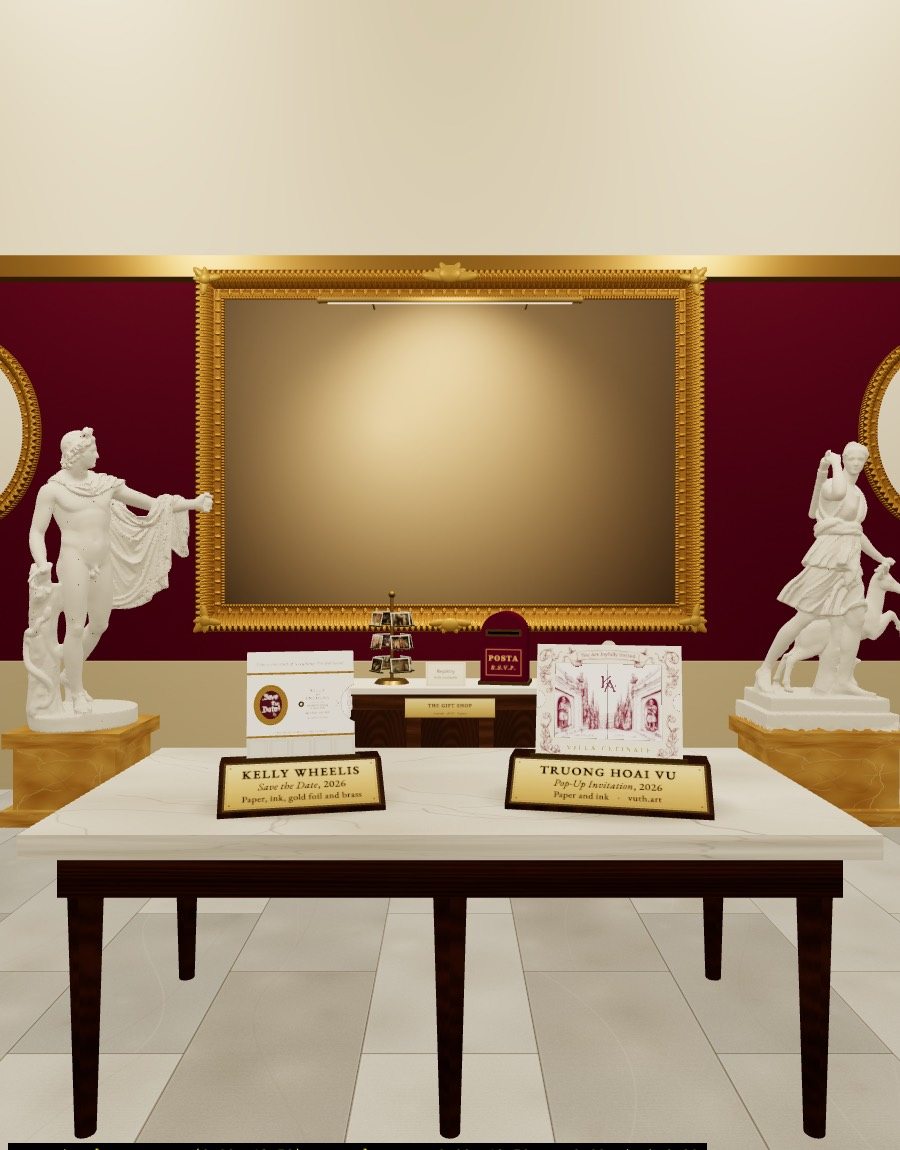
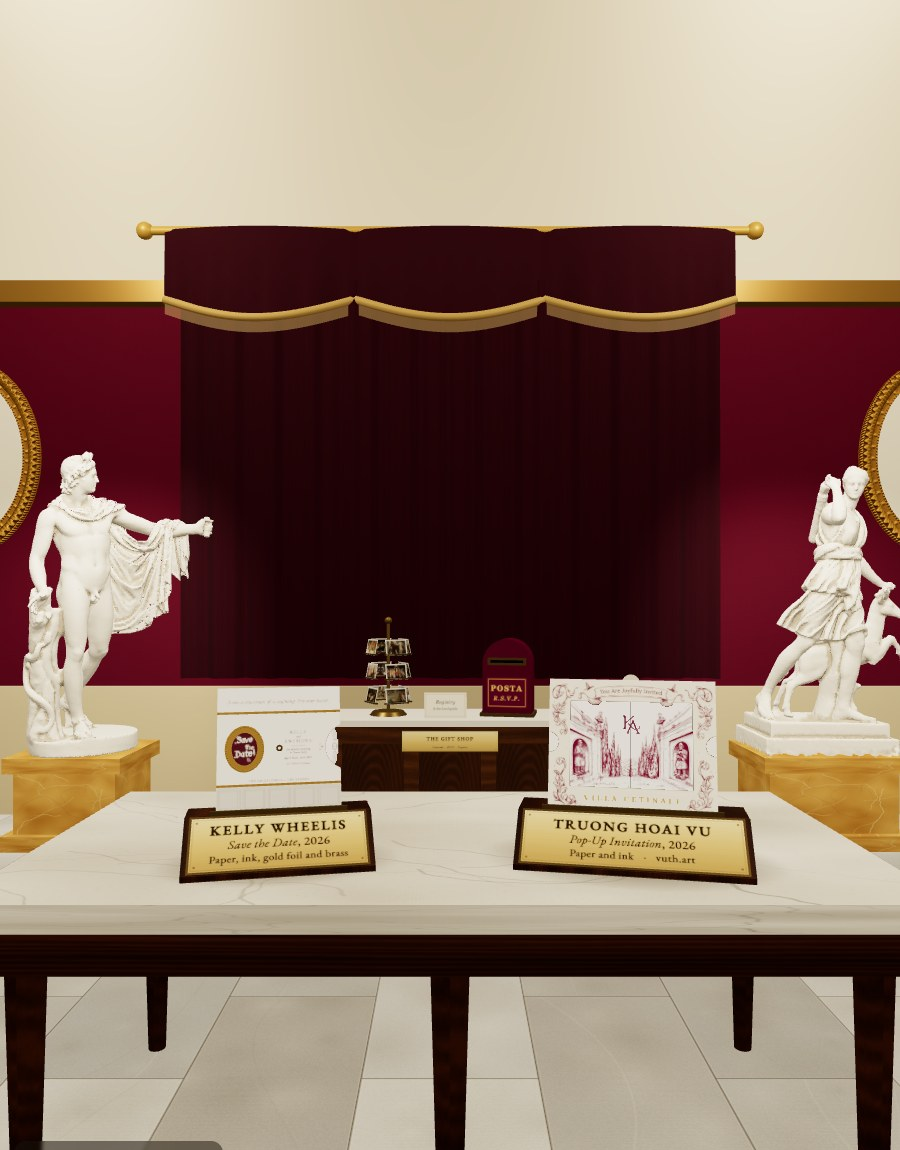
Phone edition brought up to date: current write-ups, re-rendered rooms and sculptures, and a saved generator
- tools/make_mobile_content.py builds mobile/content.js from the 3D build's tables (the harness dump=1 export now also
  carries NOTES, HIDDEN, POSTCARDS and the countdown dates); it reproduced the old file exactly apart from the updates
- Text: Apollo, Ariadne and Bacchus rewritten, The Dancing, the RSVP card's instructions, Isabella gone, Bacchus as his
  own sculpture, current credits (with the Tiepolo ceiling)
- Pictures: the 16 room heroes and sculpture cards re-rendered from today's build (the curtain, the moved table, the
  marble shading, Bacchus at the door), 900x1150 at quality 88
- HANDOFF: how to regenerate the phone text and re-render its pictures

diff --git a/Wedding website planning/mobile/content.js b/Wedding website planning/mobile/content.js
@@ -1,9 +1,6 @@
-// Generated from the 3D gallery's own text tables (tools/harness dump=1). Edit the texts in gallery3d.js, then regenerate.
+// Generated from the 3D gallery's own text tables by tools/make_mobile_content.py. Edit the texts in gallery3d.js, then regenerate.
 window.CONTENT = {
- "names": [
-  "Kelly Wheelis",
-  "Anthony Alvarez"
- ],
+ "names": ["Kelly Wheelis", "Anthony Alvarez"],
  "rooms": [
   {
    "id": "atrium",
@@ -170,7 +167,7 @@ window.CONTENT = {
     },
     {
      "title": "The Dancing",
-     "body": "Three Graces, minimum. Participation is not optional but skill is not required.",
+     "body": "Three Graces, minimum. Participation is not optional but skill is not required. Kelly will dance. Anthony will dance after a Peach Red Bull.",
      "meta": "Performance · ongoing",
      "pictures": [
       {
@@ -573,6 +570,12 @@ window.CONTENT = {
       "title": "Registry & Extras",
       "sections": [
        {
+        "h": "RSVP",
+        "p": [
+         "Pick a postcard from the rack, turn it over, and post it in the letterbox."
+        ]
+       },
+       {
         "h": "Gifts",
         "p": [
          "Our no-physical-gifts note. To be confirmed."
@@ -592,7 +595,7 @@ window.CONTENT = {
     {
      "img": "img/sc-detStatueL.jpg",
      "title": "Apollo Belvedere",
-     "body": "The most admired statue in the world for about three hundred years: Apollo, a moment after loosing an arrow, watching it land. Goethe wept. Napoleon stole it. It is here because a wedding needs at least one guest who has just hit his mark.",
+     "body": "For three hundred years this was the most famous statue in the world. Apollo has just loosed an arrow and is watching it land; he already knows it has struck. Goethe wept in front of it, Napoleon carried it off to Paris, and every art student in Europe drew it. He stands by the curtain because he is the god of light, music and poetry, all three of which we have booked. He is also the only guest who has ever hit his mark on the first try, and we hope his aim is contagious.",
      "meta": "Roman copy after Leochares, c. 120–140 · Vatican Museums (cast at Statens Museum for Kunst, Copenhagen)"
     },
     {
@@ -604,14 +607,8 @@ window.CONTENT = {
     {
      "img": "img/sc-detEndL.jpg",
      "title": "Ariadne",
-     "body": "Abandoned on an island by the man she had just saved, she lay down and slept. Bacchus found her there, married her, and set her wedding crown in the sky as a constellation. He is across the room, in the opposite corner, still wearing the ivy. Things turned out fine.",
+     "body": "Abandoned on an island by the man she had just saved, she lay down and slept. Bacchus found her there, married her, and set her wedding crown in the sky as a constellation. He is at the door as you came in, still wearing the ivy. Things turned out fine.",
      "meta": "Roman, 2nd century · Musée Saint-Raymond, Toulouse"
-    },
-    {
-     "img": "img/sc-detEndR.jpg",
-     "title": "Antinous as Dionysus",
-     "body": "Ivy and grapes in his hair: the god of wine, as the emperor Hadrian had his beloved Antinous portrayed. A confession: neither of us drinks. A request: please do not let that stop you. Tuscany makes some of the best wine on earth, and somebody has to enjoy it on our behalf.",
-     "meta": "Roman, c. 130–138 · Vatican Museums (cast at Statens Museum for Kunst, Copenhagen)"
     },
     {
      "img": "img/sc-detEntryL.jpg",
@@ -621,9 +618,9 @@ window.CONTENT = {
     },
     {
      "img": "img/sc-detEntryR.jpg",
-     "title": "Isabella of Aragon",
-     "body": "Beatrice’s cousin by marriage and, for a few years, her rival for the same palace in Milan. The two of them are on either side of this door, which is the closest they have stood to each other in five hundred years. They are behaving.",
-     "meta": "Attributed to Francesco Laurana, c. 1490 (cast at Statens Museum for Kunst, Copenhagen)"
+     "title": "Antinous as Dionysus",
+     "body": "Ivy and grapes in his hair: the god of wine, as the emperor Hadrian had his beloved Antinous portrayed, at the door to welcome you in. A confession: neither of us drinks. A request: please do not let that stop you. Tuscany makes some of the best wine on earth, and somebody has to enjoy it on our behalf. His bride, Ariadne, is at the far end of the room.",
+     "meta": "Roman, c. 130–138 · Vatican Museums (cast at Statens Museum for Kunst, Copenhagen)"
     }
    ]
   }
@@ -651,6 +648,7 @@ window.CONTENT = {
   ["The Effects of Good Government in the Countryside, Ambrogio Lorenzetti, 1338–39", "Palazzo Pubblico, Siena · public domain"],
   ["The Dream of St Ursula, Vittore Carpaccio, 1495", "Gallerie dell’Accademia, Venice · public domain"],
   ["The Court of Gonzaga (Camera degli Sposi), Andrea Mantegna, 1465–74", "Palazzo Ducale, Mantua · public domain"],
+  ["Allegory of the Planets and Continents (sketch for a ceiling), Giovanni Battista Tiepolo, 1752", "The Metropolitan Museum of Art, New York · public domain"],
   ["Pop-Up Invitation, Truong Hoai Vu", "vuth.art · illustration and paper engineering, shown with the artist’s permission"],
   ["The Capitoline Venus (cast of the marble in the Capitoline Museums, Rome)", "3D scan by Statens Museum for Kunst, Copenhagen · public domain · via Wikimedia Commons · simplified for the web, shared under the same license"],
   ["The Ludovisi Mars, with Cupid at his feet (cast of the marble in Palazzo Altemps, Rome)", "3D scan by Statens Museum for Kunst, Copenhagen · public domain · via Wikimedia Commons · simplified for the web, shared under the same license"],
@@ -662,8 +660,7 @@ window.CONTENT = {
   ["Costanza Bonarelli, Gian Lorenzo Bernini, c. 1636–38 (cast of the Bargello marble)", "3D scan by Statens Museum for Kunst, Copenhagen · public domain · via Wikimedia Commons · simplified for the web, shared under the same license"],
   ["Head of Ariadne (Musée Saint-Raymond, Toulouse)", "3D scan by Musée Saint-Raymond / Scan the World · CC BY · via Wikimedia Commons · simplified for the web, shared under the same license"],
   ["Antinous as Dionysus (cast of the Vatican marble)", "3D scan by Statens Museum for Kunst, Copenhagen · public domain · via Wikimedia Commons · simplified for the web, shared under the same license"],
-  ["Beatrice d’Este, after Gian Cristoforo Romano (cast of the Louvre marble)", "3D scan by Statens Museum for Kunst, Copenhagen · public domain · via Wikimedia Commons · simplified for the web, shared under the same license"],
-  ["Isabella of Aragon, attributed to Francesco Laurana (cast)", "3D scan by Statens Museum for Kunst, Copenhagen · public domain · via Wikimedia Commons · simplified for the web, shared under the same license"]
+  ["Beatrice d’Este, after Gian Cristoforo Romano (cast of the Louvre marble)", "3D scan by Statens Museum for Kunst, Copenhagen · public domain · via Wikimedia Commons · simplified for the web, shared under the same license"]
  ],
  "sectionLabel": {
   "main": "the main details",

diff --git a/Wedding website planning/tools/harness/extra.js b/Wedding website planning/tools/harness/extra.js
@@ -383,6 +383,7 @@
     const strip = (o) => JSON.parse(JSON.stringify(o, (k, v) => (typeof v === 'number' || typeof v === 'string' || typeof v === 'boolean' || v === null || Array.isArray(v) || (v && v.constructor === Object)) ? v : undefined));
     const out = { STATIONS: strip(STATIONS), DETAIL_PICTURES: strip(DETAIL_PICTURES), ATRIUM_PICTURES: strip(ATRIUM_PICTURES), W1_PICTURES: strip(W1_PICTURES), W2_PICTURES: strip(W2_PICTURES),
       SCULPTURE_NOTES: strip(SCULPTURE_NOTES), SCULPTURES: strip(SCULPTURES), CARDS: strip(CARDS), SECTION_LABEL: strip(SECTION_LABEL), SECTION_STOP: strip(SECTION_STOP),
+      NOTES: strip(NOTES), HIDDEN: strip(HIDDEN), POSTCARDS: strip(POSTCARDS), WEDDING: WEDDING.getTime(), SITE_OPENED: SITE_OPENED.getTime(),
       credits: [...document.querySelectorAll('#creditsList p')].map((n) => [n.firstChild.textContent.trim(), n.lastChild.textContent.trim()]) };   // [the work, its credit]
     const pre = document.createElement('pre'); pre.id = 'dump'; pre.textContent = JSON.stringify(out); document.body.appendChild(pre);
   }, 800); }

diff --git a/Wedding website planning/tools/make_mobile_content.py b/Wedding website planning/tools/make_mobile_content.py
@@ -1,0 +1,101 @@
+#!/usr/bin/env python3
+"""Build the mobile edition's text file, mobile/content.js, from the 3D gallery's own tables.
+
+The phone guide shows the same write-ups as the 3D gallery, so its text is never typed twice: edit the text in
+gallery3d.js, export the tables with the screenshot harness, and run this.
+
+  1. cd tools/harness && ./build.sh
+  2. open  http://127.0.0.1:8011/index.html?dump=1&credits=1  in headless Chrome with --dump-dom and save the page
+     (the tables arrive as JSON in <pre id="dump">); or pass the saved JSON itself
+  3. python3 tools/make_mobile_content.py DUMP.html-or-.json [mobile/content.js]
+
+What the 3D tables do not hold is set here: which picture heads each chapter, the principal works' framing, and the
+file each sculpture's card is drawn from (mobile/img/sc-<spot>.jpg, rendered with the harness). Picture shapes
+(`aspect`) follow the 3D build's own framing, so a cropped picture is cropped the same way on the phone.
+"""
+import html, json, os, re, sys
+
+HERE = os.path.dirname(os.path.abspath(__file__))
+ROOT = os.path.dirname(HERE)                                   # "Wedding website planning"
+
+NAMES = ['Kelly Wheelis', 'Anthony Alvarez']
+HEROES = {'atrium': 'img/room-atrium-hall.jpg', 'w1': 'img/room-wing1.jpg', 'w2': 'img/room-wing2.jpg', 'det': 'img/room-details.jpg'}
+PRINCIPAL = {'w1': ('img/birth-of-venus.jpg', 1.6162790697674418), 'w2': ('img/primavera.jpg', 1.5467980295566504)}   # the 3D frames' own shape
+FRESCOES = [('frescoBride', 'img/fresco-venus-and-graces.jpg', 'assets/fresco-venus-and-graces.jpg'),
+            ('frescoGroom', 'img/fresco-liberal-arts.jpg', 'assets/fresco-liberal-arts.jpg')]
+PAIR_IMAGES = ('img/room-atrium-venus.jpg', 'img/room-atrium-mars.jpg')
+WING_SCULPTURE = {'w1': ['w1statue', 'w1small'], 'w2': ['w2statue', 'w2bust']}
+DET_SCULPTURE = ['detStatueL', 'detStatueR', 'detEndL', 'detEntryL', 'detEntryR']   # detEndR holds the hourglass
+SECTIONS = [('main', 'detMain'), ('schedule', 'detSchedule'), ('travel', 'detTravel'), ('stay', 'detStay'),
+            ('logistics', 'detFrontL'), ('policies', 'detFrontR'), ('registry', 'detShop')]   # the phone's reading order, numbered 1 to 7
+
+
+def load(path):
+    text = open(path, encoding='utf-8').read()
+    if path.endswith('.json'):
+        return json.loads(text)
+    m = re.search(r'<pre id="dump">(.*?)</pre>', text, re.S)
+    if not m:
+        sys.exit('no <pre id="dump"> in ' + path)
+    return json.loads(html.unescape(m.group(1)))
+
+
+def image_aspect(rel):
+    from PIL import Image
+    w, h = Image.open(os.path.join(ROOT, rel)).size
+    return w / h
+
+
+def tbm(o):                                                       # title, body, meta
+    return {'title': o.get('title', ''), 'body': o.get('body', ''), 'meta': o.get('meta', '')}
+
+
+def build(d):
+    st = {s['id']: s for s in d['STATIONS']}
+    notes = d['NOTES']
+    sculpt = lambda spot: {'img': f'img/sc-{spot}.jpg', 'title': d['SCULPTURE_NOTES'][spot][0],
+                           'body': d['SCULPTURE_NOTES'][spot][1], 'meta': d['SCULPTURE_NOTES'][spot][2]}
+    pic = lambda src, aspect, note: {'img': 'img/' + os.path.basename(src), 'aspect': aspect, 'title': note['title'], 'body': note['body'], 'meta': note['meta']}
+
+    atrium = {'id': 'atrium', 'title': 'The Atrium', 'hero': HEROES['atrium'], 'intro': tbm(st['atrium']), 'items': [
+        {'kind': 'sculpture', 'img': PAIR_IMAGES[0], 'img2': PAIR_IMAGES[1], **tbm(notes['pair'])},
+        *[{'kind': 'fresco', 'img': img, 'aspect': image_aspect(asset), **tbm(notes[key])} for key, img, asset in FRESCOES]],
+        'frames': {'kelly': tbm(st['kelly']), 'anthony': tbm(st['anthony'])}}
+
+    def wing(wid, numeral, title, pictures):
+        img, aspect = PRINCIPAL[wid]
+        walls = []
+        for wall_stop in (wid + 'a', wid + 'b'):
+            ps = [p for p in pictures if p.get('close') and st[p['close']].get('back') == wall_stop]
+            walls.append({**tbm(st[wall_stop]), 'pictures': [pic(p['src'], p['aspect'], tbm(st[p['close']])) for p in ps]})
+        return {'id': wid, 'numeral': numeral, 'title': title, 'hero': HEROES[wid],
+                'principal': {'img': img, 'aspect': aspect, **tbm(st[wid])}, 'closeup': tbm(st[wid + 'close']),
+                'walls': walls, 'sculptures': [sculpt(s) for s in WING_SCULPTURE[wid]]}
+
+    sections = []
+    for n, (key, stop) in enumerate(SECTIONS, 1):
+        ps = [p for p in d['DETAIL_PICTURES'] if p.get('sec') == key and p.get('src') and p.get('note')]
+        sections.append({'key': key, 'n': n, **tbm(st[stop]),
+                         'pictures': [pic(p['src'], p['w'] / p['h'], dict(zip(('title', 'body', 'meta'), p['note']))) for p in ps],
+                         'card': d['CARDS'][key]})
+    det = {'id': 'det', 'title': 'Exhibit Details', 'hero': HEROES['det'], 'centre': tbm(st['det']), 'table': tbm(st['detTable']),
+           'volvelle': tbm(st['detVolvelle']), 'invite': tbm(st['detInvite']), 'shop': 'img/room-details-shop.jpg',
+           'sections': sections, 'sculptures': [sculpt(s) for s in DET_SCULPTURE]}
+
+    return {'names': NAMES, 'rooms': [atrium, wing('w1', 'I', 'Wing I', d['W1_PICTURES']), wing('w2', 'II', 'Wing II', d['W2_PICTURES']), det],
+            'credits': d['credits'], 'sectionLabel': d['SECTION_LABEL']}
+
+
+def write(content, out):
+    text = json.dumps(content, ensure_ascii=False, indent=1)
+    text = re.sub(r'\[\n\s+("[^"\n]*"),\n\s+("[^"\n]*")\n\s+\]', r'[\1, \2]', text)   # a credit's two lines on one line
+    head = '// Generated from the 3D gallery\'s own text tables by tools/make_mobile_content.py. Edit the texts in gallery3d.js, then regenerate.\n'
+    open(out, 'w', encoding='utf-8').write(head + 'window.CONTENT = ' + text + ';\n')
+
+
+if __name__ == '__main__':
+    if len(sys.argv) < 2:
+        sys.exit(__doc__)
+    out = sys.argv[2] if len(sys.argv) > 2 else os.path.join(ROOT, 'mobile', 'content.js')
+    write(build(load(sys.argv[1])), out)
+    print('wrote', out)

diff --git a/Wedding website planning/HANDOFF.md b/Wedding website planning/HANDOFF.md
@@ -462,13 +462,21 @@ with the window cut out, `img/vol-wheel.png` turning behind it; tap advances a p
 over" shows the monogram back), the pop-up invitation (doors open on tap, the villa's three layers shift with
 the phone's tilt, the tab draws the card out), the seven detail sections with their wall-text cards, and RSVP.
 
-- **Text lives in one place.** `mobile/content.js` is GENERATED from the 3D build's own tables: run the harness
-  with `dump=1` (`tools/harness/extra.js`) and the python in the session log, or simply re-run the generator
-  after editing `gallery3d.js`. Do not hand-edit content.js; the atrium's `NOTES` are the one exception (copied
-  into the generator).
+- **Text lives in one place.** `mobile/content.js` is GENERATED from the 3D build's own tables by
+  `tools/make_mobile_content.py` (saved as a file on 26 Sept 2026; until then the generator lived only in a session
+  log, which is how the phone edition fell three days behind). After editing text in `gallery3d.js`: build the
+  harness, save `index.html?dump=1&credits=1` with headless Chrome's `--dump-dom` (the `dump` hook exports every text
+  table, the atrium `NOTES`, `HIDDEN`, `POSTCARDS` and the countdown dates), then
+  `python3 tools/make_mobile_content.py DUMP.html`. What the 3D tables do not hold (chapter heroes, the principal
+  works' framing, each sculpture card's file) is set at the top of the script. Do not hand-edit content.js.
 - **Pictures**: `mobile/img/` holds phone-sized copies (`sips`, 1400 px and 700 px `-s` versions for srcset) of
   every painting, the card assets, and the postcards (`room-*.jpg`, `sc-*.jpg`) rendered with the harness at
-  900x1200 with `clean=1&slow=1` (`tools/harness/shotp.sh OUT URL W H SCALE BUDGET`).
+  900x1200 with `clean=1&slow=1` (`tools/harness/shotp.sh OUT URL W H SCALE BUDGET`), cropped to 900x1150 and
+  saved at JPEG quality 88. Re-rendered 26 Sept 2026 (the curtain, the moved table, the marble shading, Bacchus at
+  the door): rooms from their entry stops (`goto=atrium` / `w1` / `w2` / `det`, the shop `goto=det,detShop`), each
+  sculpture from its walk-up (`goto=<room>,sc_<spot>`), Venus and Mars from `x=±0.4&z=2.4&yaw=±2.345&pitch=-0.1`.
+  The phone lists the details sections in reading order (Main, Schedule, Travel, Accommodations, Logistics,
+  Policies, RSVP) and numbers them 1 to 7 in that order; the 3D build numbers them in its walking order.
 - **Checking it**: `tools/harness/.work/phone.html?p=?open%23sec-schedule` frames the page in a true 390 px
   viewport (headless Chrome will not go narrower than 500 px on its own); `?open` skips the doors, `?dbg`
   lists anything wider than the screen.
